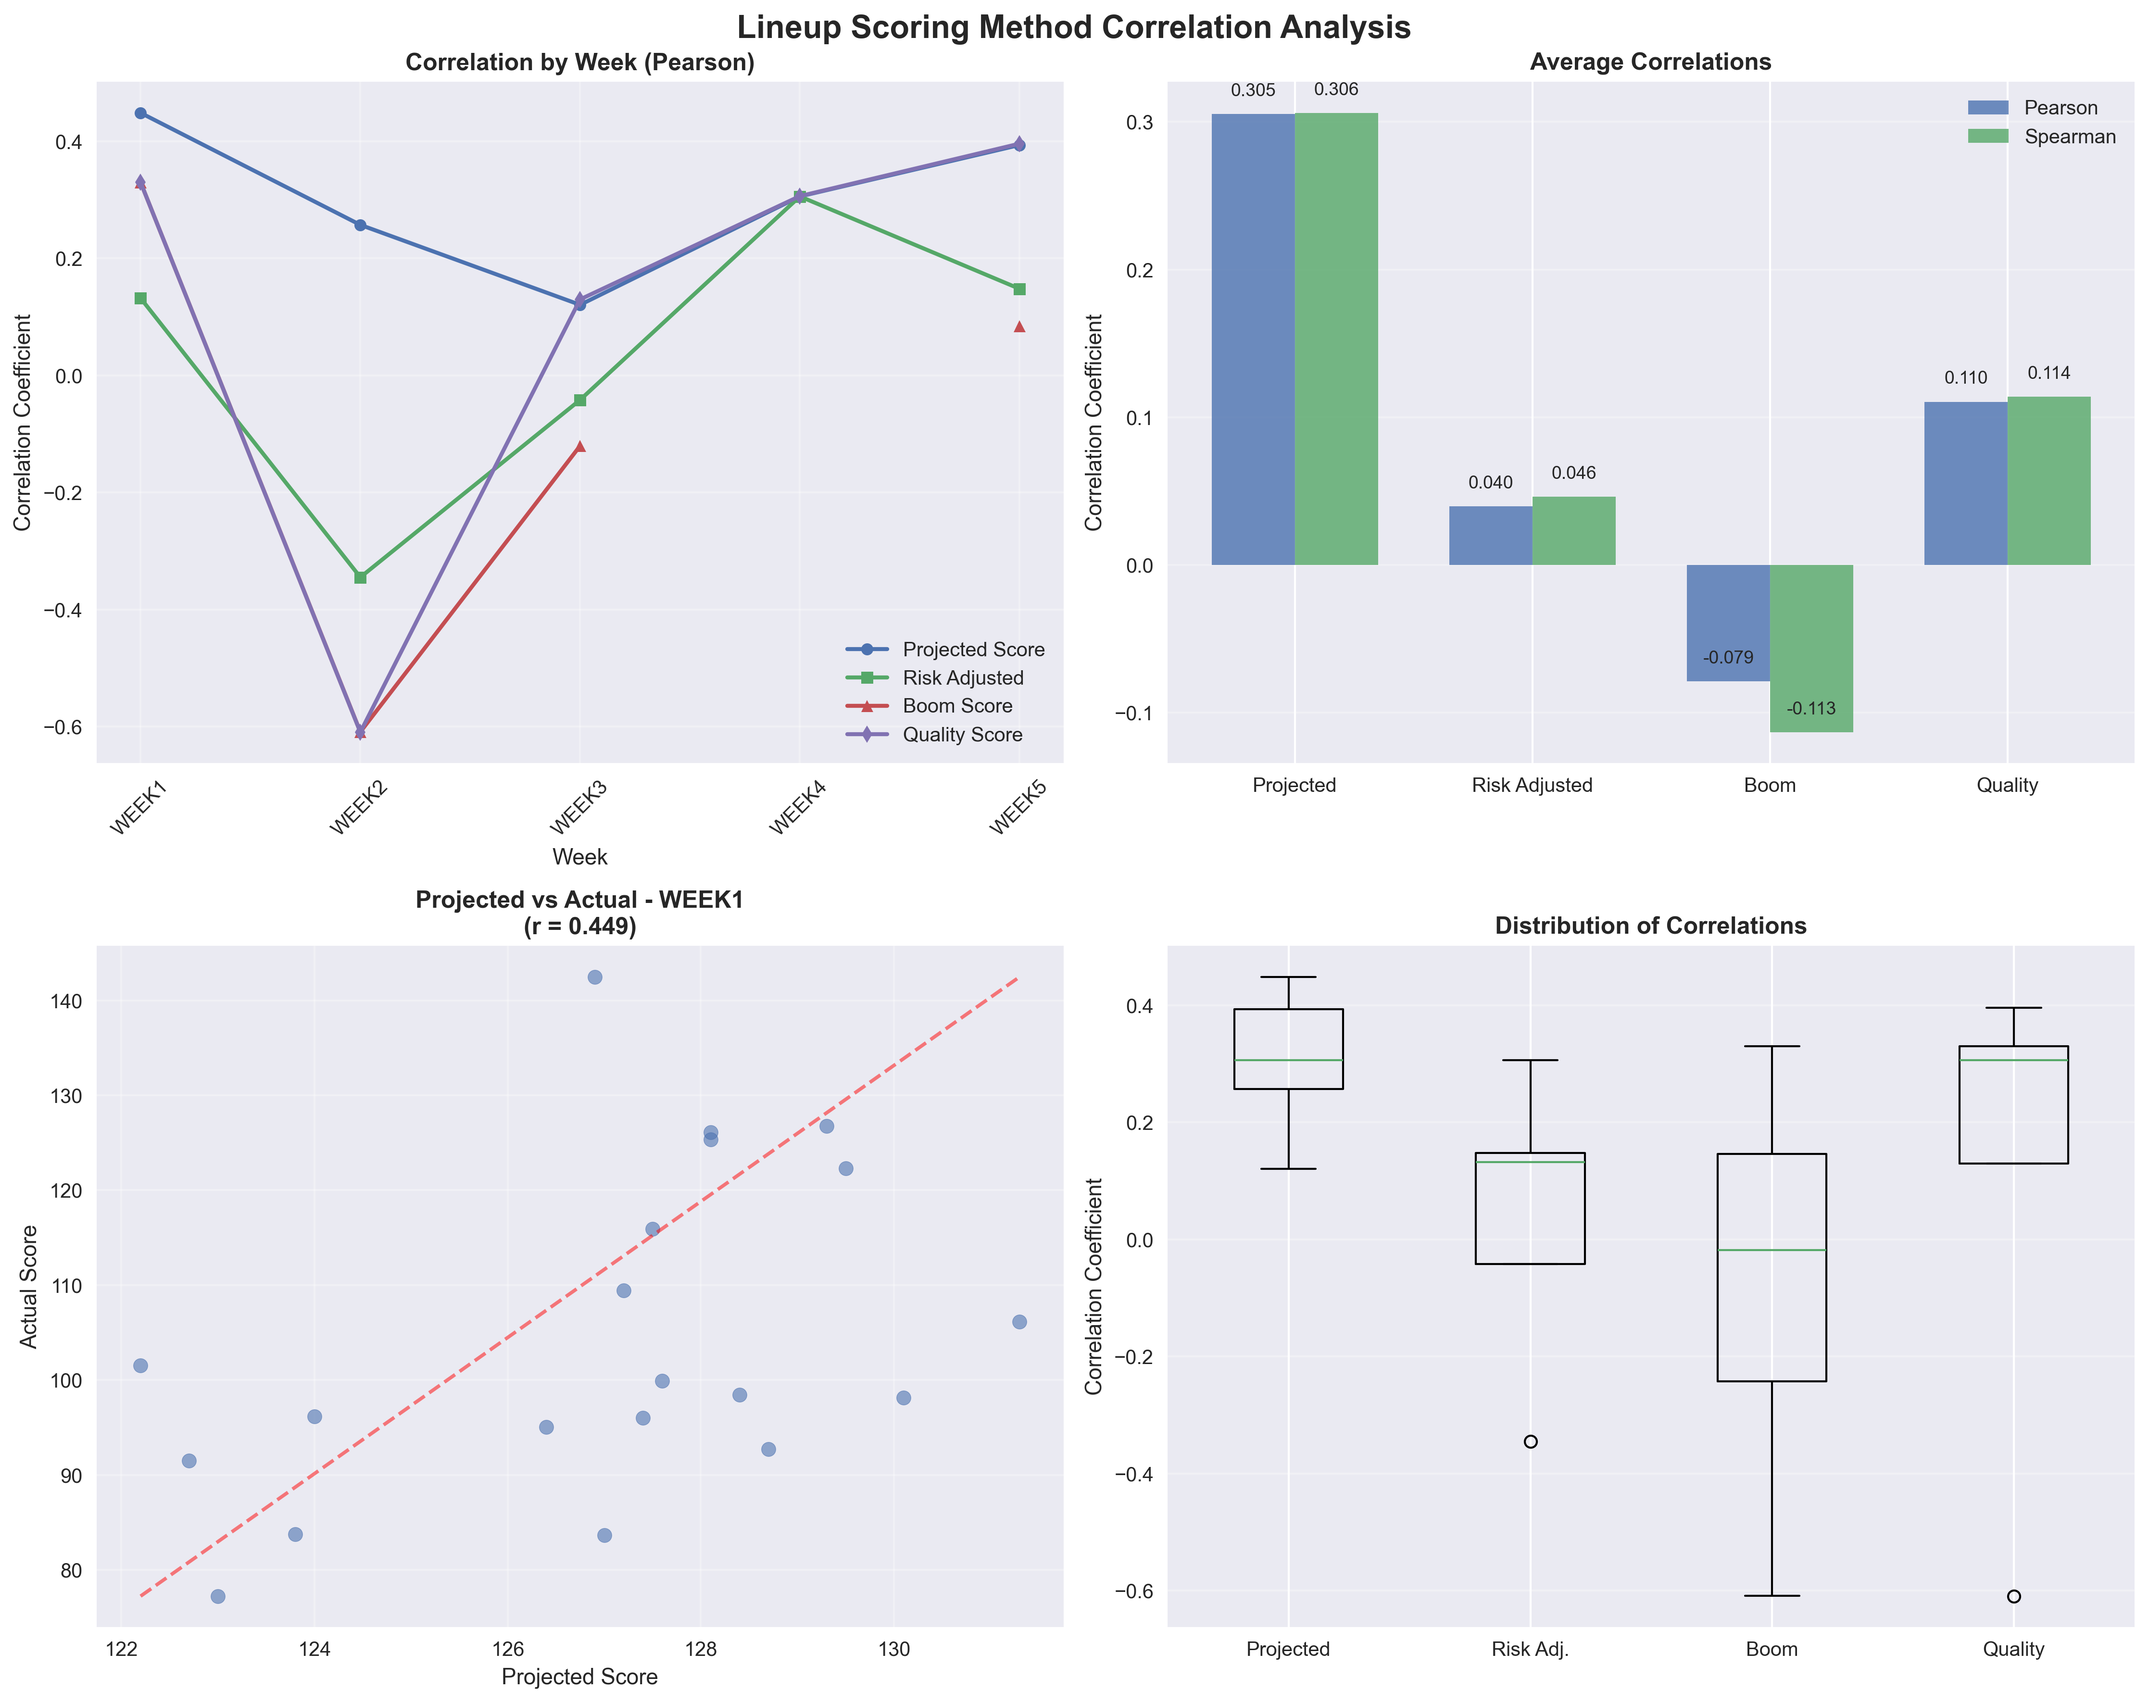
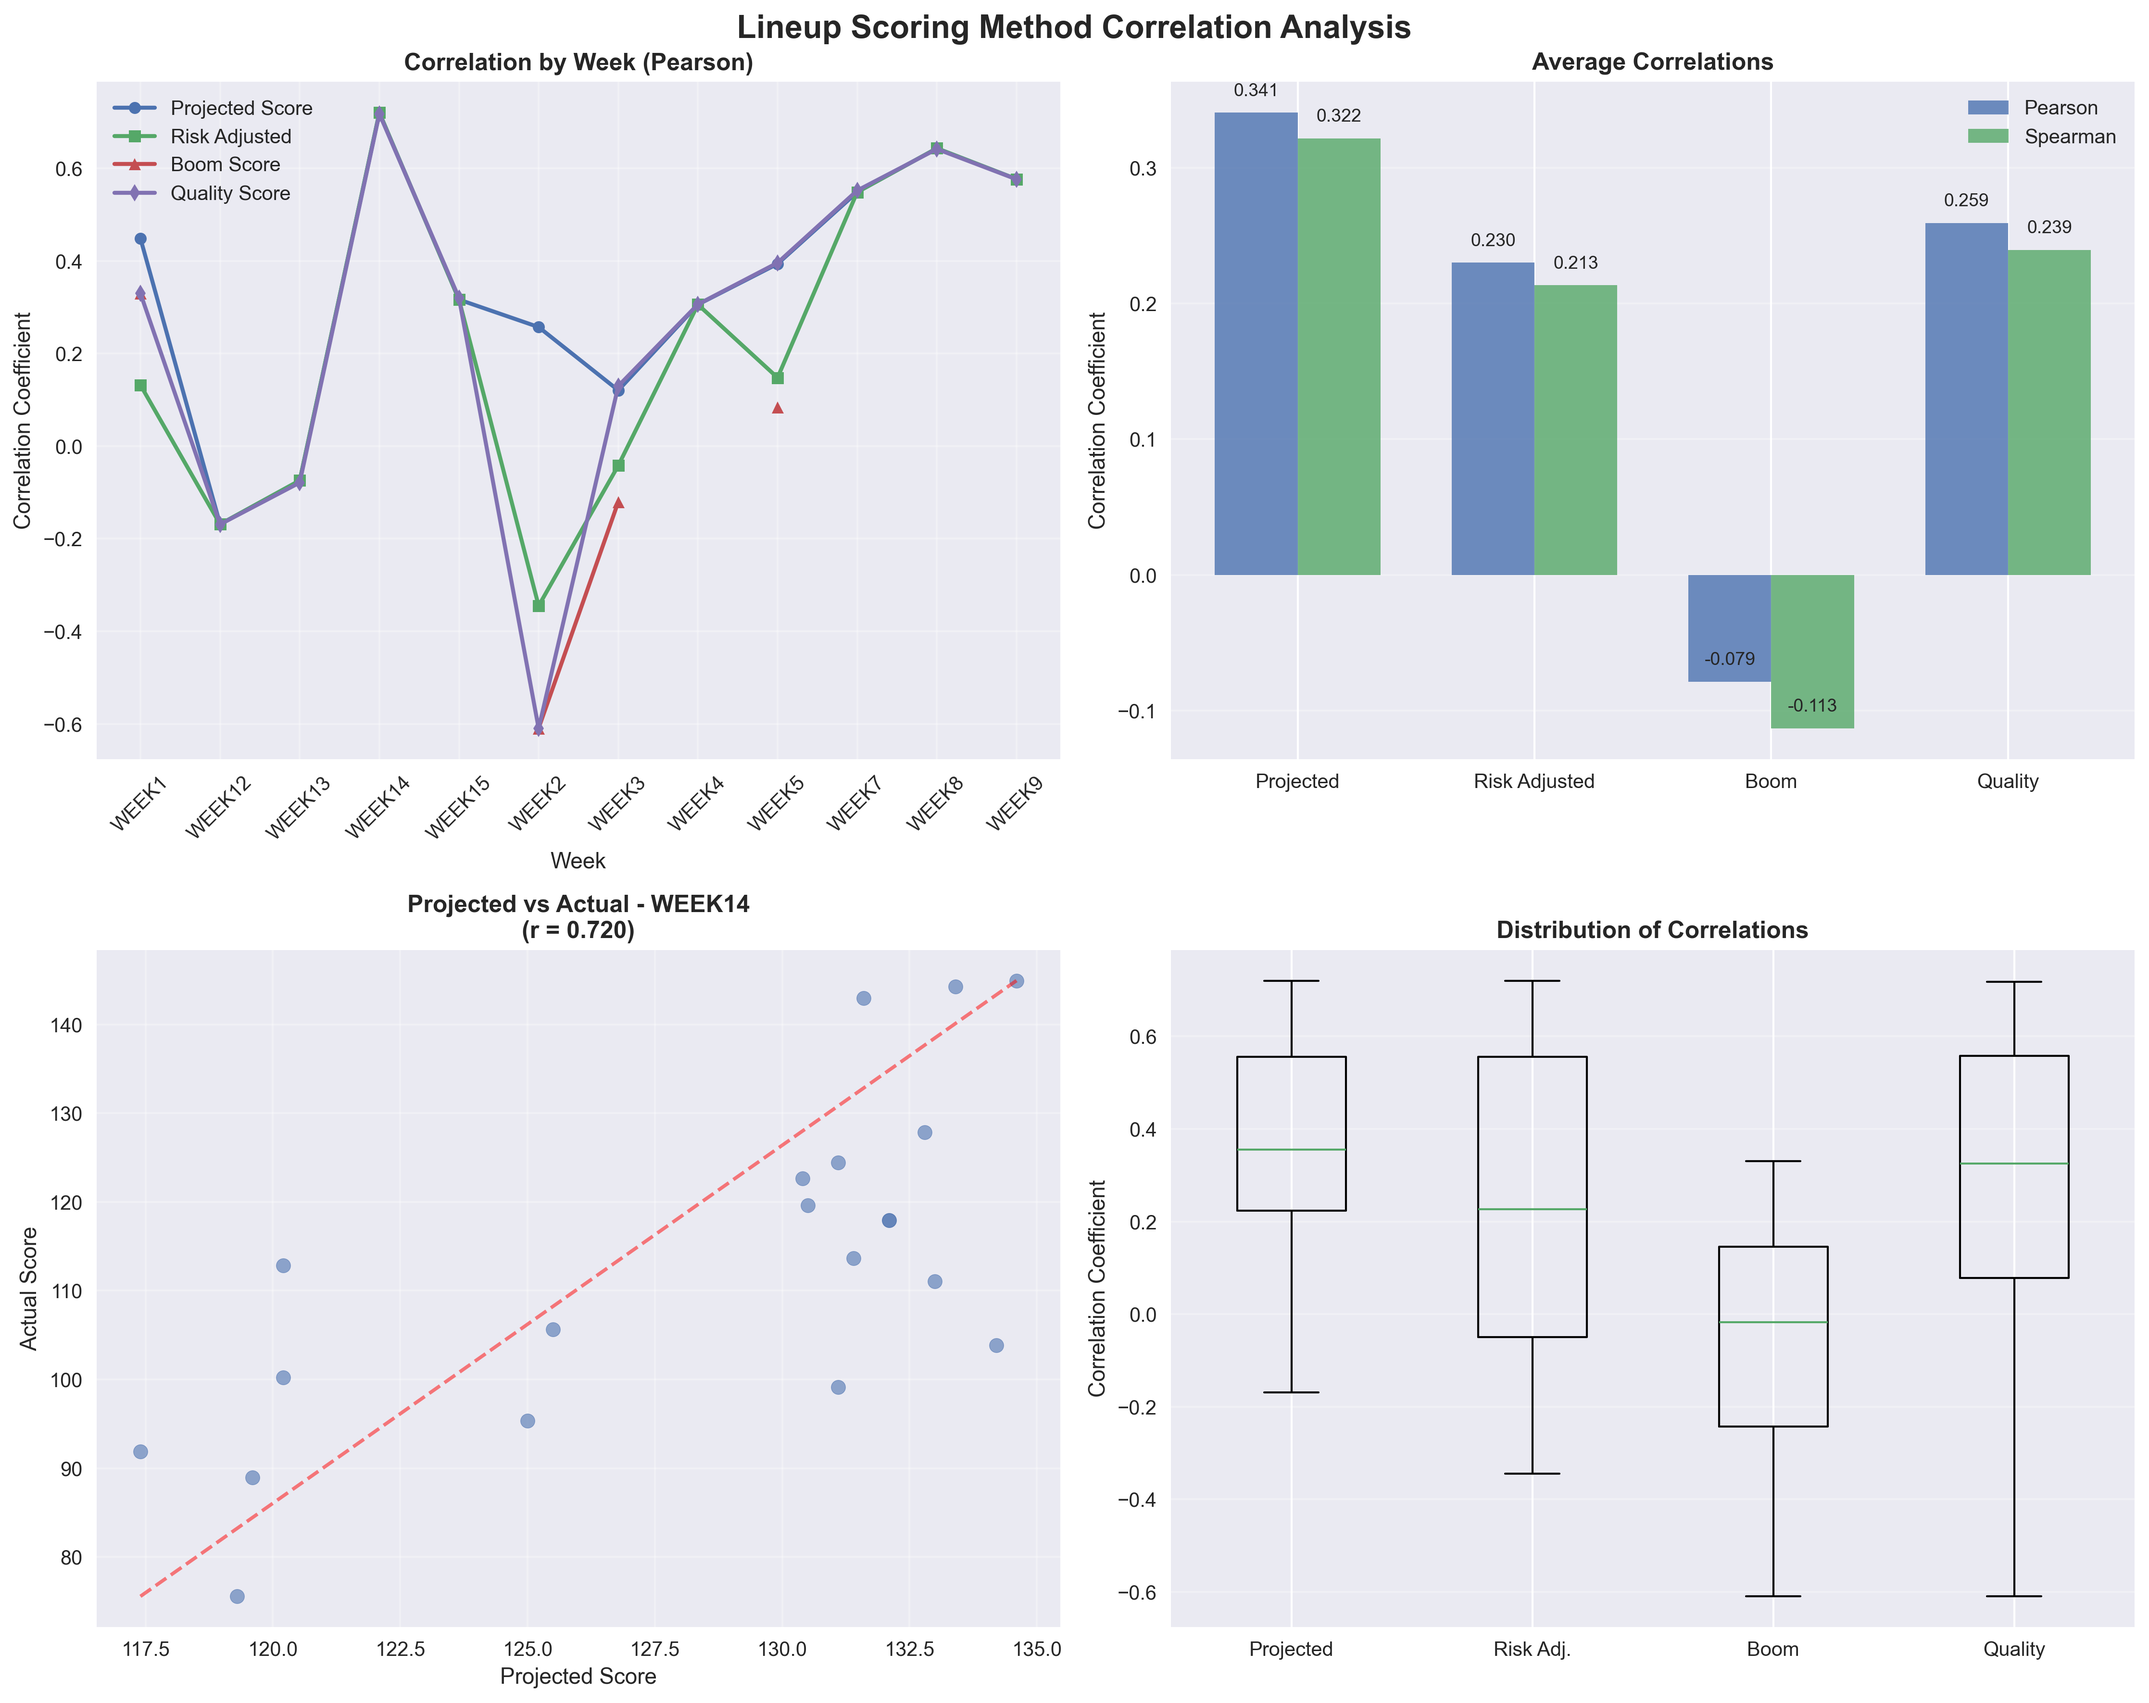
optimal lineup additions

diff --git a/optimal_lineup_analysis.py b/optimal_lineup_analysis.py
@@ -1,6 +1,6 @@
 #!/usr/bin/env python3
 """
-Optimal Lineup Analysis for 2024 NFL DFS Data
+Optimal Lineup Analysis for 2025 NFL DFS Data
 
 This script finds the optimal lineup for each week using actual scores and analyzes:
 1. Lineup construction patterns
@@ -20,6 +20,7 @@ from collections import defaultdict, Counter
 from pathlib import Path
 import matplotlib.pyplot as plt
 import seaborn as sns
+from utils import clean_player_name
 
 # DraftKings lineup constraints
 DK_SALARY_CAP = 50000
@@ -32,7 +33,7 @@ DK_POSITIONS = {
     'DST': 1
 }
 
-@dataclass
+@dataclass(frozen=True)
 class Player:
     """Player data structure for analysis"""
     name: str
@@ -204,8 +205,9 @@ class OptimalLineup:
 class OptimalLineupAnalyzer:
     """Analyzer for optimal lineup construction patterns"""
     
-    def __init__(self, data_path: str = "2024"):
+    def __init__(self, data_path: str = "2025", max_week: int = 15):
         self.data_path = Path(data_path)
+        self.max_week = max_week
         self.optimal_lineups = {}
         
     def load_week_data(self, week: int) -> pd.DataFrame:
@@ -216,33 +218,18 @@ class OptimalLineupAnalyzer:
             print(f"Week {week} directory not found: {week_dir}")
             return pd.DataFrame()
         
-        # Check for available salary files (prioritize sunday versions)
-        dk_file_sunday = week_dir / f"DKSalaries-Week{week}_sunday.csv"
-        dk_file_regular = week_dir / f"DKSalaries-Week{week}.csv"
+        # Find any file starting with "DKSalaries"
+        dk_files = list(week_dir.glob("DKSalaries*.csv"))
         
-        # Also check for lowercase "week" version (like Week 12)
-        dk_file_sunday_lower = week_dir / f"DKSalaries-week{week}_sunday.csv"
-        dk_file_regular_lower = week_dir / f"DKSalaries-week{week}.csv"
-        
-        # Determine which file to use (prioritize sunday versions)
-        if dk_file_sunday.exists():
-            dk_file = dk_file_sunday
-            file_type = "sunday"
-        elif dk_file_sunday_lower.exists():
-            dk_file = dk_file_sunday_lower
-            file_type = "sunday (lowercase)"
-        elif dk_file_regular.exists():
-            dk_file = dk_file_regular
-            file_type = "regular"
-        elif dk_file_regular_lower.exists():
-            dk_file = dk_file_regular_lower
-            file_type = "regular (lowercase)"
-        else:
+        if not dk_files:
             print(f"No DraftKings salaries file found for Week {week}")
             return pd.DataFrame()
         
+        # Use the first matching file (or most recent if multiple)
+        dk_file = sorted(dk_files)[-1]  # Sort to get consistent behavior
+        
         dk_df = pd.read_csv(dk_file)
-        print(f"Loaded Week {week} {file_type} DraftKings salaries: {len(dk_df)} players")
+        print(f"Loaded Week {week} DraftKings salaries from {dk_file.name}: {len(dk_df)} players")
         
         # Load ACTUAL scores from box_score_debug.csv
         box_score_file = week_dir / "box_score_debug.csv"
@@ -253,16 +240,16 @@ class OptimalLineupAnalyzer:
             # Merge actual scores with DraftKings data
             merged_df = dk_df.copy()
             
-            # Create a mapping of player names to actual scores
+            # Create a mapping of cleaned player names to actual scores
             score_mapping = {}
             for _, row in box_score_df.iterrows():
-                player_name = row['Name']
+                player_name = clean_player_name(row['Name'])
                 actual_score = row['DFS Total']
                 score_mapping[player_name] = actual_score
             
             # Update scores: use actual scores for offensive players, keep AvgPointsPerGame for DSTs
             for idx, row in merged_df.iterrows():
-                player_name = row['Name']
+                player_name = clean_player_name(row['Name'])
                 position = row['Position']
                 
                 if position in ['DST', 'DEF']:
@@ -1545,14 +1532,17 @@ class OptimalLineupAnalyzer:
             return None
     
     def analyze_all_weeks(self) -> Dict[int, OptimalLineup]:
-        """Analyze all available weeks"""
-        print("Finding optimal lineups for all weeks...")
+        """Analyze all available weeks up to max_week"""
+        print(f"Finding optimal lineups for weeks 1-{self.max_week}...")
         
         # Find all week directories
         week_dirs = [d for d in self.data_path.iterdir() if d.is_dir() and d.name.startswith('WEEK')]
         weeks = sorted([int(d.name[4:]) for d in week_dirs])
         
-        print(f"Found weeks: {weeks}")
+        # Filter to only include weeks up to max_week
+        weeks = [w for w in weeks if w <= self.max_week]
+        
+        print(f"Analyzing weeks: {weeks}")
         
         optimal_lineups = {}
         for week in weeks:
@@ -1689,7 +1679,7 @@ class OptimalLineupAnalyzer:
         
         report = []
         report.append("=" * 80)
-        report.append("2024 NFL DFS OPTIMAL LINEUP CONSTRUCTION ANALYSIS")
+        report.append("2025 NFL DFS OPTIMAL LINEUP CONSTRUCTION ANALYSIS")
         report.append("=" * 80)
         report.append("")
         

diff --git a/advanced_lineup_generator.py b/advanced_lineup_generator.py
@@ -757,18 +757,28 @@ class AdvancedLineupGenerator:
         
         # Save merged data for debugging
         if len(merged_df) > 0:
+            # Determine which projection column to use (projected_points for coarse mode, projected_score for fine mode)
+            # Use projected_points if it has non-zero values, otherwise use projected_score
+            if 'projected_points' in merged_df.columns and merged_df['projected_points'].sum() > 0:
+                projection_col = 'projected_points'
+            else:
+                projection_col = 'projected_score'
+            
             # Create a clean merged CSV with relevant columns
             merged_export = merged_df[[
                 'player_name',  # ESPN player name
                 'Name + ID',    # DraftKings name + ID
                 'team',         # ESPN team
                 'Salary',       # DraftKings salary
-                'projected_score', 'bust_score', 'boom_score',  # ESPN projections
+                projection_col, 'bust_score', 'boom_score',  # ESPN projections
                 'bust_percentage', 'boom_percentage',           # ESPN percentages
                 'position',     # ESPN position
                 'opponent',     # ESPN opponent
                 'Game Info'     # DraftKings game info
             ]].copy()
+            
+            # Rename the projection column to standardized name
+            merged_export = merged_export.rename(columns={projection_col: 'projected_score'})
             
             # Rename columns for clarity
             merged_export.columns = [
